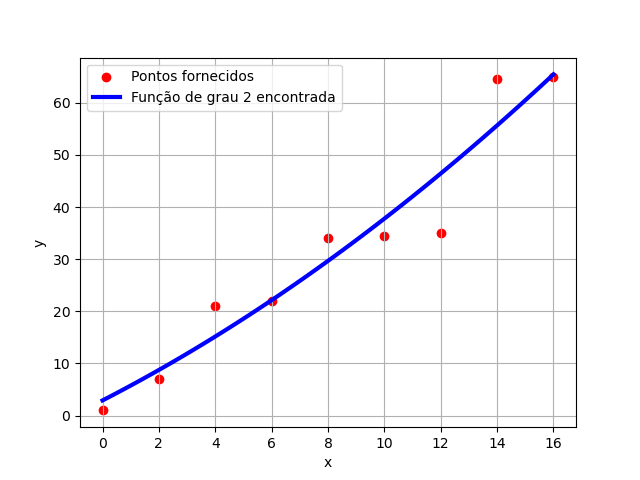
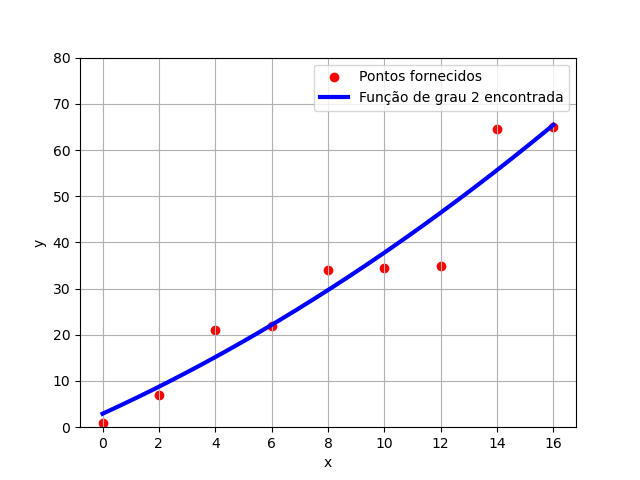
Terminei a implementação

diff --git a/trabalho07/main.py b/trabalho07/main.py
@@ -116,11 +116,11 @@ def P(a, xp):
     return p 
 
 
-# Função utilizada para plotar o gráfico dos pontos e da função f(x) encontrada (caso discreto): 
+# Função utilizada para plotar o gráfico dos pontos e da função f(x) encontrada (caso discreto):
 def plotar_grafico(x, y, coeficentes):
-    plt.figure(f'Figura do polinômio encontrado (caso discreto)')
+    plt.figure(f'Figura da função encontrada (caso discreto)')
 
-    x_plot = np.linspace(min(x), max(x), 100)
+    x_plot = np.linspace(min(x), max(x), 500)
     y_plot = []
 
     for x_i in x_plot:
@@ -131,6 +131,7 @@ def plotar_grafico(x, y, coeficentes):
     
     plt.xlabel("x")
     plt.ylabel("y")
+    plt.ylim(0, 80)
     plt.legend()
     plt.grid(True)
     
@@ -189,3 +190,15 @@ print(coeficientes_continuo)
 
 print("\nFunção aproximada:")
 imprimir_polinomio(coeficientes_continuo)
+
+# Diferença da função sin(x) e do poliômio encontrado
+valores = np.linspace(a, b, 5)
+
+print(f"\n{'x':>8} | {'sin(x)':>8} | {'P(x)':>8} | {'Erro':>8}")
+print("=" * 45)
+
+for val in valores:
+    valor_real = f(val)
+    valor_aproximado = P(coeficientes_continuo, val)
+    erro = abs(valor_real - valor_aproximado)
+    print(f"{val:8.4f} | {valor_real:8.4f} | {valor_aproximado:8.4f} | {erro:8.4f}")
